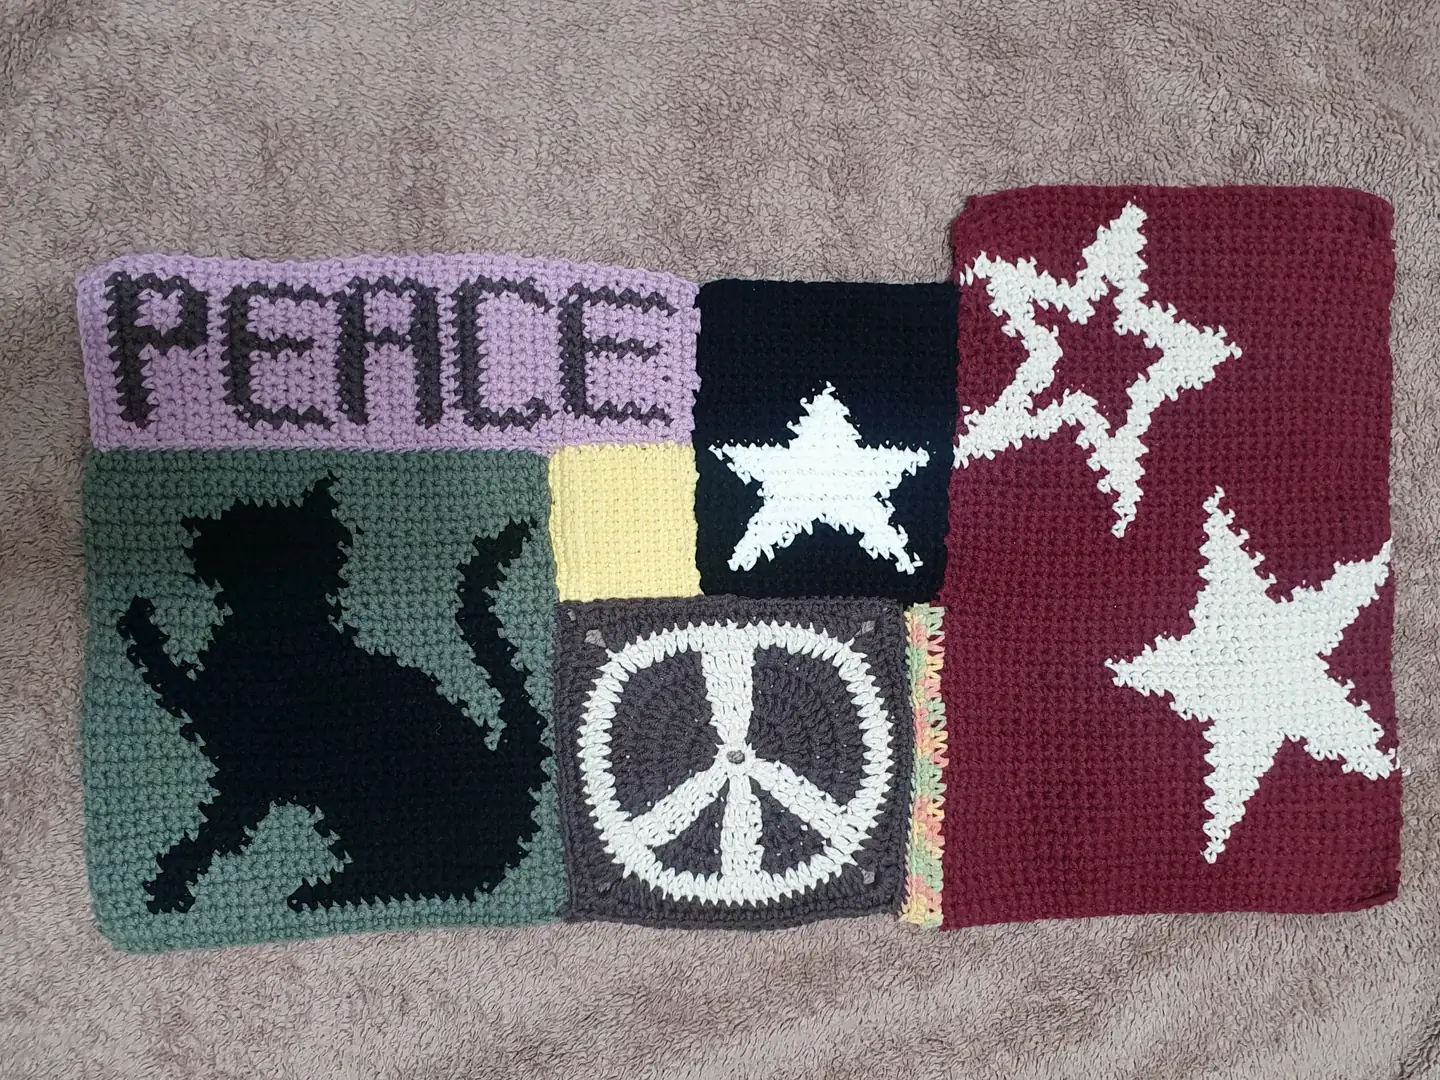
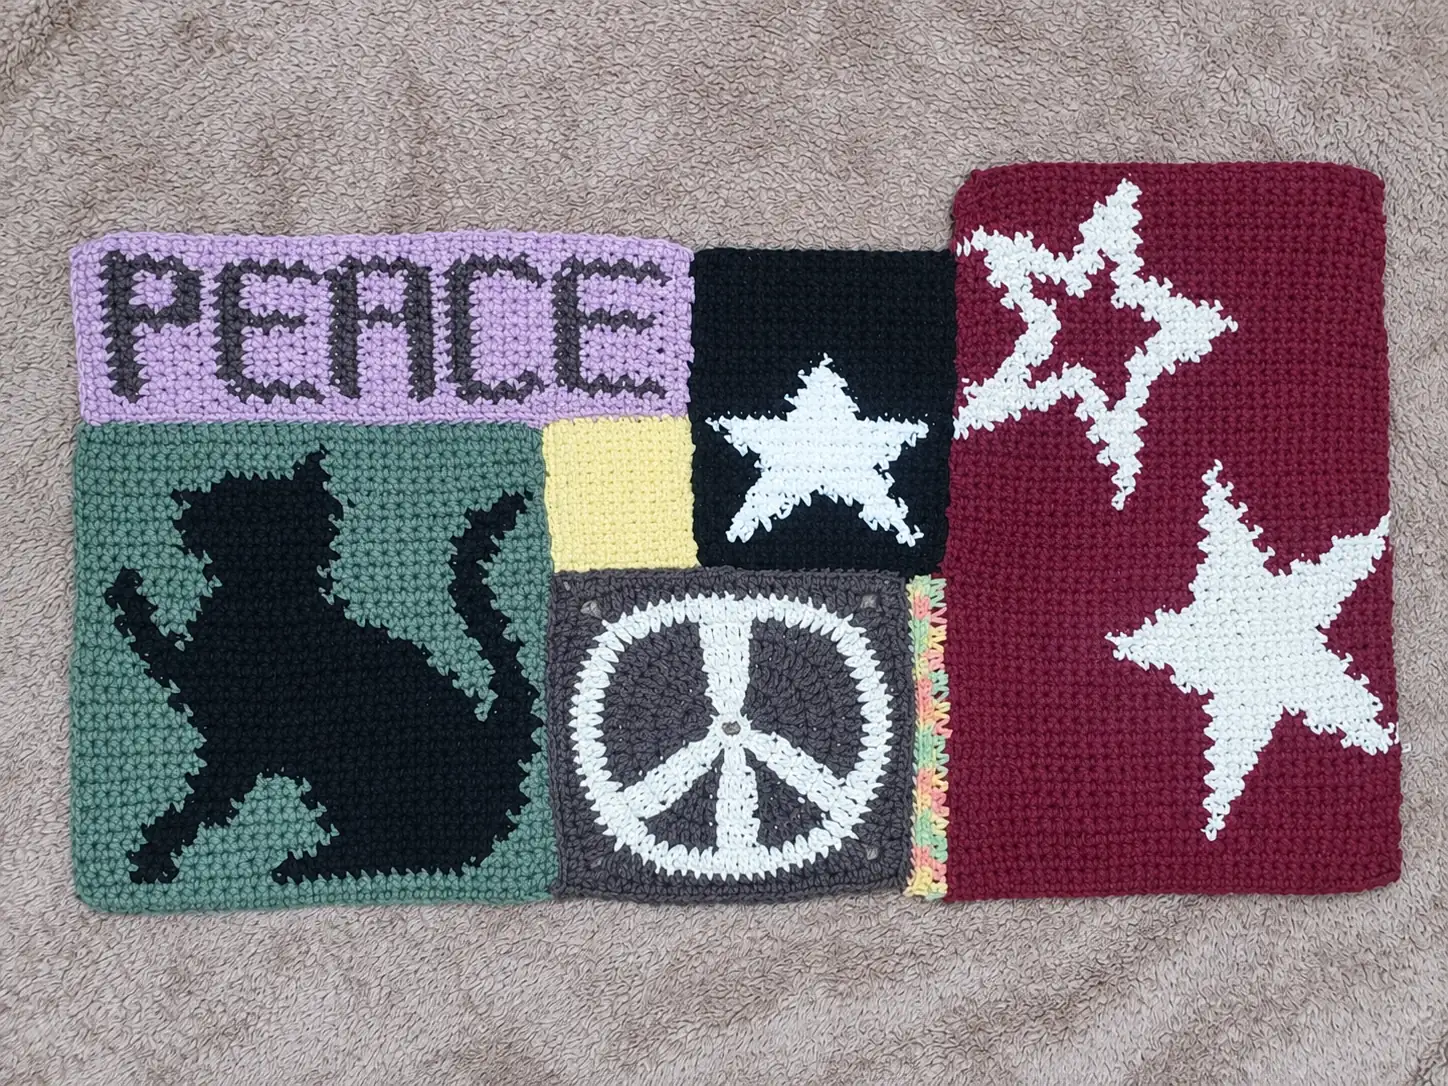
연습해본 편물 글 사진 교체: 원근·조명 보정한 새 사진
- guide-patchwork-all.webp: 새 사진(1448×1086)을 크기·색 그대로 WebP로만 변환(화질 64, 291,396바이트, 메타데이터 없음)
- img width/height 1448×1086 (alt·캡션·본문 그대로)

diff --git a/guides/patchwork-practice/index.html b/guides/patchwork-practice/index.html
@@ -47,7 +47,7 @@
   <p class="lead">연습해본 편물을 이어붙인거에요 ㅎㅎ<br>
 실은 거의 다 착하면을 사용했어요.</p>
   <figure class="guide-fig photo">
-    <img src="../../assets/guides/guide-patchwork-all.webp" width="1440" height="1080" alt="보라색 PEACE 글자, 검은 고양이, 검은 바탕의 흰 별, 빨간 바탕의 별 두 개와 가운데 피스 사인 조각을 이어 붙인 코바늘 편물">
+    <img src="../../assets/guides/guide-patchwork-all.webp" width="1448" height="1086" alt="보라색 PEACE 글자, 검은 고양이, 검은 바탕의 흰 별, 빨간 바탕의 별 두 개와 가운데 피스 사인 조각을 이어 붙인 코바늘 편물">
     <figcaption>연습해본 편물을 이어붙인 모습</figcaption>
   </figure>
   <p>도트뜨개에서 만든 도안으로 뜬 조각은 PEACE 글자, 검은 고양이, 검은 바탕의 흰 별, 빨간 바탕의 별 두 개입니다.</p>
